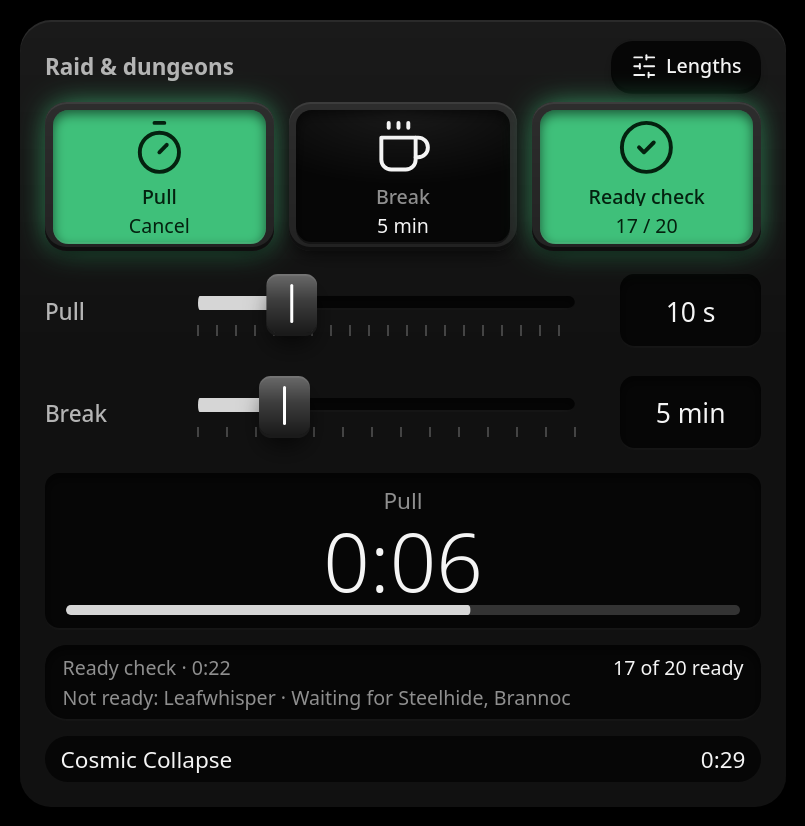
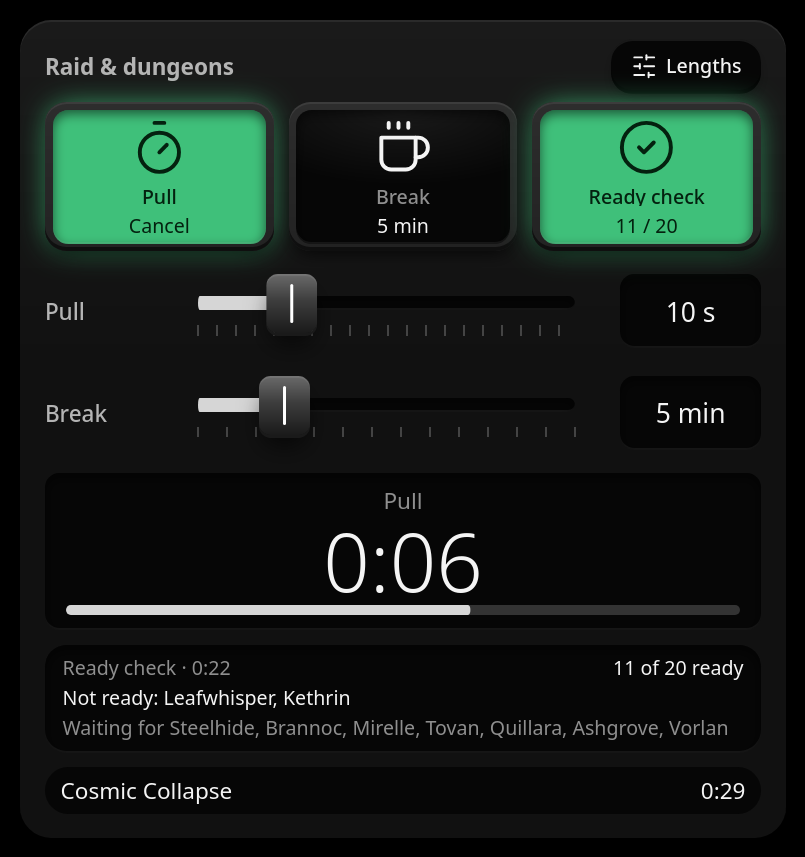
WoW page: the ready check names everyone; companion 2.7.1
The companion sent at most 8 of those not ready or not answered, names
cut at 16 bytes, and the plate printed them on one line cut with an
ellipsis, so a raid's ready check named only some of them. Now up to 40
(a full raid), names up to 24 bytes (12 characters, accented ones two
bytes each), and "Not ready" and "Waiting for" (or "No answer") get a
line each that wraps. The demo raid has nine still to answer.

diff --git a/static/wow/modules/raid.js b/static/wow/modules/raid.js
@@ -136,10 +136,12 @@
         api.text(rcEl.querySelector('.wow-rc-fig'), all ? 'Everyone is ready' : `${rc.ready} of ${rc.total} ready`);
         rcEl.dataset.tone = !live && !all ? 'warn' : '';
         // Over (or run out before the game said so): no answer yet is no answer.
+        // A line each, wrapping: up to v0.16.3 one line cut with an ellipsis,
+        // so a raid's list lost most of its names.
         const names = (pick) => rc.missing.filter(pick).map(m => m.name).join(', ');
         const no = names(m => m.a === 2), rest = names(m => m.a !== 2);
-        api.text(rcEl.querySelector('.wow-rc-who'), [no && `Not ready: ${no}`,
-            rest && (live ? `Waiting for ${rest}` : `No answer: ${rest}`)].filter(Boolean).join(' · '));
+        api.text(rcEl.querySelector('.wow-rc-no'), no && `Not ready: ${no}`);
+        api.text(rcEl.querySelector('.wow-rc-wait'), rest && (live ? `Waiting for ${rest}` : `No answer: ${rest}`));
     }
 
     // A countdown whose numbers the game hides (in a dungeon or raid, an
@@ -235,7 +237,7 @@
         rcEl.hidden = true;
         rcEl.setAttribute('aria-live', 'polite');
         rcEl.innerHTML = '<div class="wow-rc-top"><span class="wow-rc-head"></span><span class="wow-rc-fig num"></span></div>'
-            + '<p class="wow-rc-who"></p>';
+            + '<p class="wow-rc-who wow-rc-no"></p><p class="wow-rc-who wow-rc-wait"></p>';
         barsEl = document.createElement('div');
         barsEl.className = 'wow-bars';
         barsEl.hidden = true;

diff --git a/static/wow/wow.css b/static/wow/wow.css
@@ -1505,13 +1505,17 @@
     color: var(--warning-text);
 }
 
+/* Not ready, then waiting for: a line each, wrapping, so every name shows. */
 .wow-rc-who {
     margin: 0;
-    overflow: hidden;
-    text-overflow: ellipsis;
-    white-space: nowrap;
+    overflow-wrap: anywhere;
     font-size: var(--fs-xs);
+    line-height: 1.4;
     color: var(--well-ink-2);
+}
+
+.wow-rc-no {
+    color: var(--well-ink);
 }
 
 .wow-rc-who:empty {

diff --git a/tests/test_wow_companion.py b/tests/test_wow_companion.py
@@ -158,7 +158,7 @@ def make(game, tmp_path, settings=None, *, loaded=True, window=True):
     core = WowAddons(wow_addons.discover(), send_keys=keys, clipboard=clip, sleep=lambda s: None,
                      screen=win, clock=lambda: 5000 + (win.frames / 60 if win else 0))
     core.configure({"wow_path": str(root), **(settings or {})})
-    assert core.install_companion() == wow_addons.bundled_version() == "2.7.0"
+    assert core.install_companion() == wow_addons.bundled_version() == "2.7.1"
     return core, pressed, clip
 
 
@@ -758,3 +758,19 @@ def test_a_later_phase_counts_from_when_it_starts(game, tmp_path):
     snap = core.snapshot()
     (stack,) = snap["data"]["alerts"]["list"]          # up to v0.16.2: counted from phase 1's start, 5 s ago
     assert stack["text"] == "Stack" and stack["rem"] - snap["age"] == pytest.approx(5 - 20 / 60, abs=0.2)
+
+
+def test_a_raids_ready_check_names_everyone_not_ready(game, tmp_path):
+    core, _, _ = make(game, tmp_path)
+    others = ["PALADIN", "HUNTER", "ROGUE", "PRIEST", "DEATHKNIGHT", "SHAMAN", "MAGE", "WARLOCK", "MONK", "DRUID",
+              "DEMONHUNTER", "EVOKER"]
+    game.cmd("group raid " + " ".join(others))
+    frames(core, 2)
+    game.cmd("event READY_CHECK Thrall 35")            # you asked; nobody else has answered
+    game.cmd("event READY_CHECK_CONFIRM raid3 false")  # the Hunter is not ready
+    frames(core, 20)
+    rc = game_live(core)["rc"]
+    assert (rc["total"], rc["ready"]) == (13, 1)
+    # Every one of them, through the live link: up to 2.7.0 the first 8 only
+    assert [(m["name"], m["a"]) for m in rc["missing"]] == [
+        (c.capitalize(), 2 if c == "HUNTER" else 0) for c in others]

diff --git a/scripts/wow_demo.py b/scripts/wow_demo.py
@@ -147,8 +147,11 @@ SNAP = {"v": 1, "ver": server.wow_addons.bundled_version(), "combat": False, "lo
                   {"id": 1264426, "name": "Void-Touched", "rem": 1700}],
         "bars": [{"label": "Pull", "rem": 8.4, "dur": 10.0}, {"label": "Cosmic Collapse", "rem": 31.0, "dur": 45.0}],
         "group": {"n": 20, "raid": True, "classes": ["MAGE", "PRIEST", "DRUID", "WARRIOR", "EVOKER"]},
-        "rc": {"state": 1, "rem": 24.0, "total": 20, "ready": 17,
-               "missing": [{"name": "Steelhide", "a": 0}, {"name": "Leafwhisper", "a": 2}, {"name": "Brannoc", "a": 0}]},
+        # More than 8 still to answer: the plate names every one (up to v0.16.3 the first 8, on one cut line)
+        "rc": {"state": 1, "rem": 24.0, "total": 20, "ready": 11,
+               "missing": [{"name": n, "a": 2 if n in ("Leafwhisper", "Kethrin") else 0}
+                           for n in ("Steelhide", "Leafwhisper", "Brannoc", "Mirelle", "Tovan", "Quillara",
+                                     "Ashgrove", "Kethrin", "Vorlan")]},
         "alerts": {"phase": 1, "enc": "Dimensius", "list": [
             {"text": "Ice Block the {skull} soak", "rem": 9.0, "spell": None},
             {"text": "Spread {star} {circle}", "rem": 24.0, "spell": None},

diff --git a/wow_addons/modules/game.py b/wow_addons/modules/game.py
@@ -49,6 +49,7 @@ CONSUMABLES = (
     ("rune", "Augment rune", ("Augment",), (1264426,)),
 )
 ALERTS_MAX = 8
+RC_NAMES = 40           # a ready check's not ready / not answered, up to a 40-player raid
 _DEFEATED = re.compile(r"\s+defeated$", re.I)
 _DEFEATED_CUT = re.compile(r"\s+d(?:e(?:f(?:e(?:a(?:t(?:e(?:d)?)?)?)?)?)?)?$", re.I)   # cut short at 24 bytes
 CHESTS = (0.6, 0.8, 1.0)       # +3, +2, +1: the share of the key's time each needs (EllesmereUI's timer, Midnight)
@@ -173,7 +174,7 @@ def _ready_check(raw: Any) -> dict | None:
     if state not in (1, 2):
         return None
     missing = [{"name": _text(table(m).get("name"), 24), "a": _num(table(m).get("a"))}
-               for m in items(rc.get("missing"))[:8] if _text(table(m).get("name"))]
+               for m in items(rc.get("missing"))[:RC_NAMES] if _text(table(m).get("name"))]
     return {"state": "running" if state == 1 else "over", "rem": _num(rc.get("rem")),
             "total": _num(rc.get("total")) or 0, "ready": _num(rc.get("ready")) or 0, "missing": missing}
 

diff --git a/docs/WOW.md b/docs/WOW.md
@@ -69,11 +69,11 @@ A plate is one part of the page. Three columns of them, arranged as you like ([A
 
 ### Raid & dungeons
 
-<img src="images/wow/plate-raid.png" alt="Raid & dungeons: Pull lit with Cancel, Break, Ready check lit with 17 of 20, a pull counting down from 10 seconds, the ready check's line, a boss mod bar" width="420"> <img src="images/wow/plate-raid-lengths.png" alt="The same plate with Lengths open: the pull and break faders" width="420">
+<img src="images/wow/plate-raid.png" alt="Raid & dungeons: Pull lit with Cancel, Break, Ready check lit with 11 of 20, a pull counting down from 10 seconds, who is not ready and the seven still to answer, each on its own line, a boss mod bar" width="420"> <img src="images/wow/plate-raid-lengths.png" alt="The same plate with Lengths open: the pull and break faders" width="420">
 
 - **Pull** starts the group's pull countdown: Blizzard's own, which BigWigs and DBM show as their pull bar (with BigWigs it goes through its `/pull`, without opening chat). While one runs, the key reads **Cancel**.
 - **Break** starts a break timer through BigWigs, DBM or NSRT, whichever you have.
-- **Ready check** starts one; under the timer, how many are ready, who is not, and who has not answered.
+- **Ready check** starts one; under the timer, how many are ready, then who is not and who has not answered, a line each, every name (a full raid wraps onto more lines).
 - **Lengths** (top right) shows the pull and break faders; most people send the same every time, so they stay folded away. Each screen remembers its own lengths, starting from the defaults in settings.
 - The big timer follows the game: anyone's pull or break bar, from any boss mod. Boss mod bars are listed below it. In a dungeon or raid the game hides a pull countdown's length from addons: a pull sent from the page still counts down, while someone else's reads **Pull started** with no figure.
 
